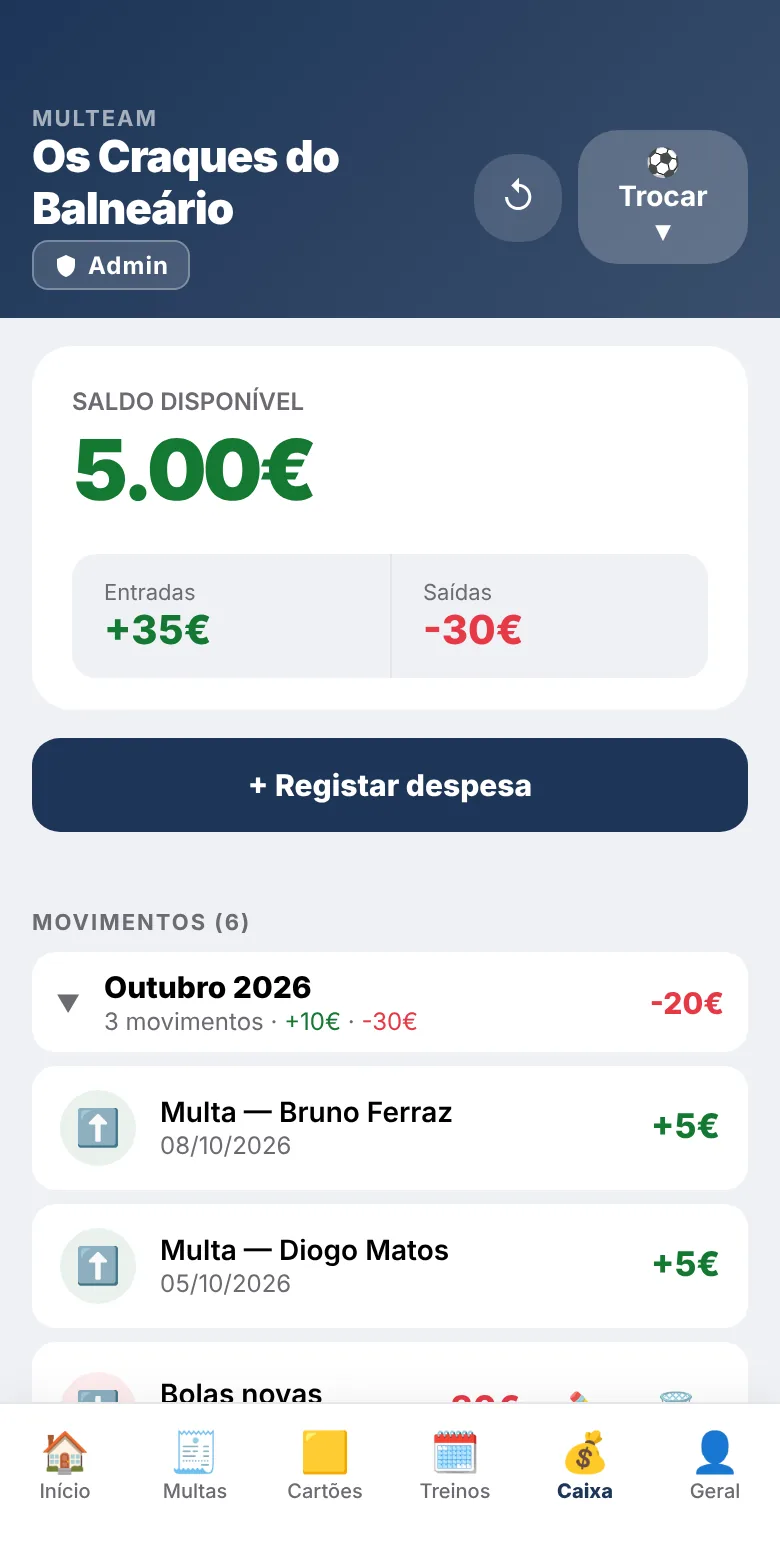
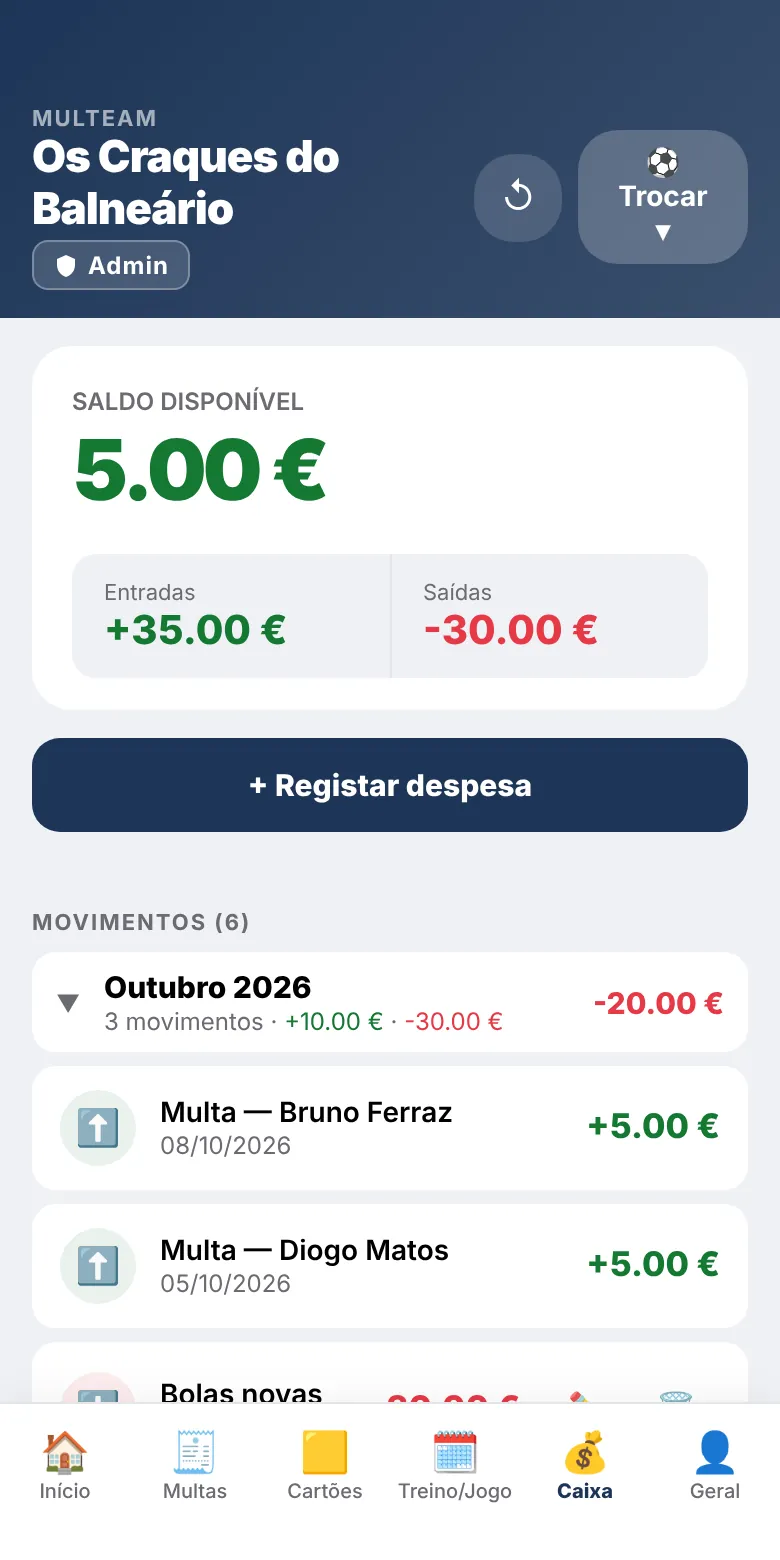
video-demo/gravar.js: separador "Treino/Jogo" + página /sobre/ com as novidades dos jogos e as siglas da posição (#113)
* video-demo/gravar.js: o separador da barra de baixo chama-se agora "Treino/Jogo"

Claude-Session: https://claude.ai/code/session_01XW9KKCBSNgpnK8uyFYcZ7o

* /sobre/: novidades dos jogos (barra Treino/Jogo, resultado e pontos, classificação por época, arquivo) e capturas novas

- bloco "Treinos, jogos e presenças" com o separador Treino/Jogo e as etiquetas Jogo/Treino
- bloco novo "Jogos, resultados e classificação" e pergunta nova nas FAQ (pontos, época 1 de julho a 30 de junho, arquivo 2 h)
- capturas inicio, multas, caixa e treinos refeitas (barra "Treino/Jogo") e jogos.webp nova, com equipa de teste

Claude-Session: https://claude.ai/code/session_01XW9KKCBSNgpnK8uyFYcZ7o

* /sobre/: tira a pergunta nova das FAQ (o dom-contacto conta 6 perguntas; a informação fica no bloco dos jogos)

Claude-Session: https://claude.ai/code/session_01XW9KKCBSNgpnK8uyFYcZ7o

* /sobre/: a convocatória mostra a sigla da posição de cada jogador (já na main, build 349)

Claude-Session: https://claude.ai/code/session_01XW9KKCBSNgpnK8uyFYcZ7o

---------

diff --git a/docs/sobre/index.html b/docs/sobre/index.html
@@ -198,14 +198,29 @@
             </div>
           </article>
           <article class="f">
-            <div class="phone"><img src="treinos.webp" width="390" height="780" loading="lazy" alt="Lista de treinos e jogos com os botões Presente e Ausente" /></div>
+            <div class="phone"><img src="treinos.webp" width="390" height="780" loading="lazy" alt="Ecrã Treinos / Jogos com a classificação da época e um jogo com o resultado 2–1, os pontos e os botões Presente e Ausente" /></div>
             <div>
               <h3>Treinos, jogos e presenças</h3>
-              <p>Marca os treinos e os jogos e cada jogador responde se vai ou não. Sabes logo com quantos podes contar.</p>
+              <p>Marca os treinos e os jogos no separador Treino/Jogo e cada jogador responde se vai ou não. Sabes logo com quantos podes contar.</p>
               <ul>
                 <li>Treinos, jogos e treinos que se repetem</li>
                 <li>Presente ou ausente com um toque</li>
                 <li>Cartões amarelos e vermelhos registados</li>
+                <li>Etiqueta &ldquo;Jogo&rdquo; em cada jogo e &ldquo;Treino&rdquo; em cada treino que se repete</li>
+              </ul>
+            </div>
+          </article>
+          <article class="f rev">
+            <div class="phone"><img src="jogos.webp" width="390" height="780" loading="lazy" alt="Painel Jogos com o jogo atual, o próximo jogo sem resultado, o arquivo e a classificação da época com vitórias, empates, derrotas e pontos" /></div>
+            <div>
+              <h3>Jogos, resultados e classificação</h3>
+              <p>Cria cada jogo com o adversário, a data e a hora, o local, a tática e se é em casa ou fora. O resultado é opcional: podes marcar o jogo sem resultado e registá-lo depois.</p>
+              <ul>
+                <li>Resultado em grande no cartão do jogo, com os pontos: vitória 3, empate 1, derrota 0</li>
+                <li>Quem gere a equipa edita e apaga o resultado no próprio cartão</li>
+                <li>Classificação com vitórias, empates, derrotas e pontos, por época (de 1 de julho a 30 de junho, hora da Suíça)</li>
+                <li>O jogo passa sozinho para o arquivo 2 horas depois do início</li>
+                <li>Convocatória com o nome e a sigla da posição de cada jogador (por exemplo GR, DC, MC), ao criar e ao editar o jogo</li>
               </ul>
             </div>
           </article>

diff --git a/video-demo/gravar.js b/video-demo/gravar.js
@@ -116,7 +116,7 @@ const MIME = { ".js": "text/javascript", ".html": "text/html", ".json": "applica
   await em(26000); await page.evaluate(() => window.palco.legenda("Presenças no treino: <em>Sim ou Não</em>"));
   await em(26600); await clicar(separador("Início")); await sleep(500); await topo();
   await em(28800); await clicar(app.getByRole("button", { name: /Sim/ }).first());
-  await em(30200); await clicar(separador("Treinos"));
+  await em(30200); await clicar(separador("Treino/Jogo"));
   await em(31800); await page.evaluate(() => window.palco.legenda(""));
 
   // Cena 7 (32-37,5 s): final (pelo menos 4 s)
